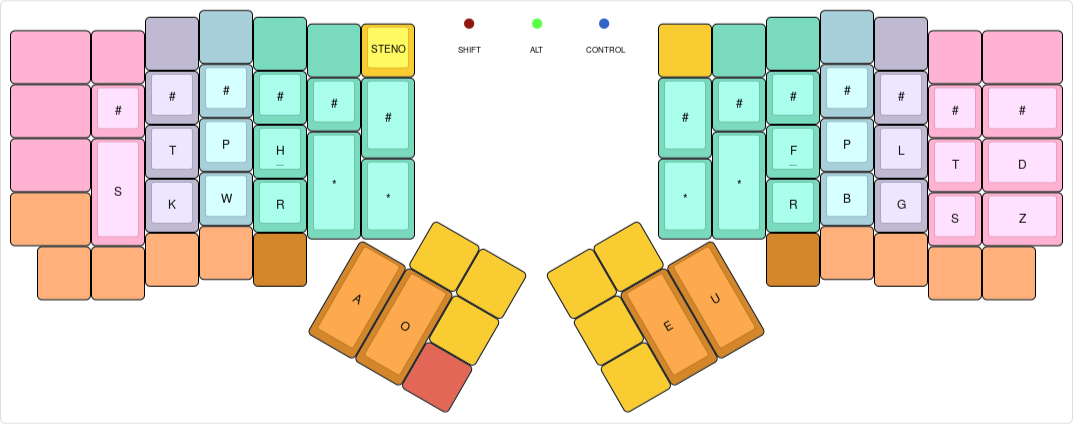
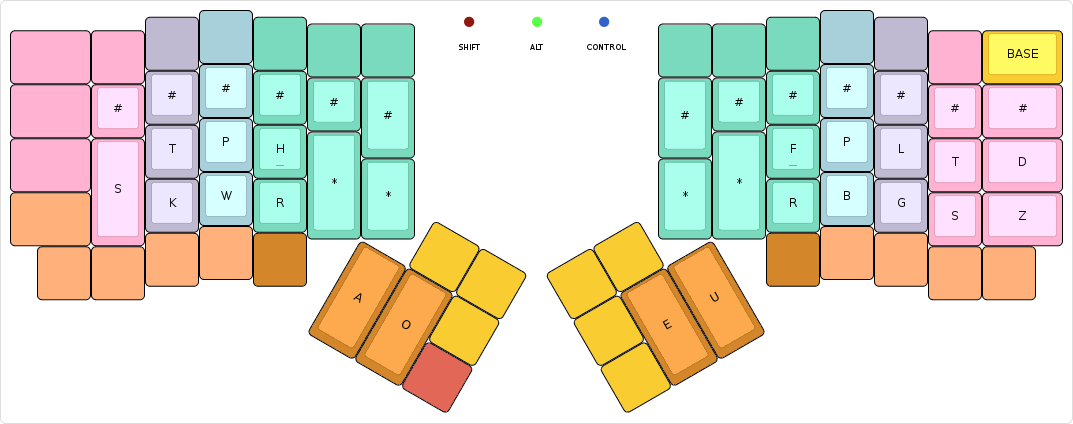
Fix the Steno toggle key
The toggle key has been moved on the Base and ADORE layers, move it on
Plover too, so that the release is properly registered too.

Fixes #127.

diff --git a/keymap.c b/keymap.c
@@ -386,7 +386,7 @@ const uint16_t PROGMEM keymaps[][MATRIX_ROWS][MATRIX_COLS] = {
 /* Keymap 6: Steno for Plover
  *
  * ,--------------------------------------------------.           ,--------------------------------------------------.
- * |        |      |      |      |      |      | BASE |           |      |      |      |      |      |      |        |
+ * |        |      |      |      |      |      |      |           |      |      |      |      |      |      |  BASE  |
  * |--------+------+------+------+------+-------------|           |------+------+------+------+------+------+--------|
  * |        |   #  |   #  |   #  |   #  |   #  |   #  |           |  #   |  #   |  #   |   #  |   #  |  #   |   #    |
  * |--------+------+------+------+------+------|      |           |      |------+------+------+------+------+--------|
@@ -407,7 +407,7 @@ const uint16_t PROGMEM keymaps[][MATRIX_ROWS][MATRIX_COLS] = {
 
 [PLVR] = KEYMAP(
 // left hand
-KC_NO,  KC_NO,  KC_NO,  KC_NO,   KC_NO,  KC_NO,   M(A_PLVR),
+KC_NO,  KC_NO,  KC_NO,  KC_NO,   KC_NO,  KC_NO,   KC_NO,
 KC_NO,  PV_NUM, PV_NUM, PV_NUM,  PV_NUM, PV_NUM,  PV_NUM,
 KC_NO,  PV_LS,  PV_LT,  PV_LP,   PV_LH,  PV_STAR,
 KC_NO,  PV_LS,  PV_LK,  PV_LW,   PV_LR,  PV_STAR, PV_STAR,
@@ -417,7 +417,7 @@ KC_NO,  KC_NO,  KC_NO,  KC_NO,   KC_NO,
                                            PV_A,  PV_O,  KC_NO,
 
                                                  // right hand
-                                                 KC_NO,   KC_NO,   KC_NO,   KC_NO,   KC_NO,   KC_NO,   KC_NO,
+                                                 KC_NO,   KC_NO,   KC_NO,   KC_NO,   KC_NO,   KC_NO,   M(A_PLVR),
                                                  PV_NUM,  PV_NUM,  PV_NUM,  PV_NUM,  PV_NUM,  PV_NUM,  PV_NUM,
                                                           PV_STAR, PV_RF,   PV_RP,   PV_RL,   PV_RT,   PV_RD,
                                                  PV_STAR, PV_STAR, PV_RR,   PV_RB,   PV_RG,   PV_RS,   PV_RZ,

diff --git a/readme.md b/readme.md
@@ -160,6 +160,10 @@ The keymap default to forcing NKRO, which seems to upset Windows, and except the
 * The `hid-commands` tool will now display a notification when the **AppSel** layer is triggered.
 * The `log-to-heatmap.py` tool now treats the innermost keys on the bottom row as thumb keys, as far as statistics are concerned.
 
+### Miscellaneous
+
+* Fixed the [Steno](#steno-layer) toggle key.
+
 ## v1.7
 
 *2016-09-18*
